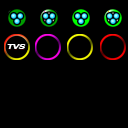
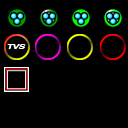
add white box as default attribute

Changed region(s): [[0.0312, 0.5, 0.25, 0.7188]]

diff --git a/htdocs/request/grx/l3attr.php b/htdocs/request/grx/l3attr.php
@@ -31,7 +31,7 @@ Font: 1, 11, 1, \"Courier New\"
 ";
 
 
-for ($i=0;$row=@pg_fetch_array($rs,$i);$i++)
+for ($i=0;$row=@pg_fetch_assoc($rs,$i);$i++)
 {
   $d = intval( $row["drct"] ) - 180;
   if ($d < 0){ $d = 360 - $d; }
@@ -39,7 +39,7 @@ for ($i=0;$row=@pg_fetch_array($rs,$i);$i++)
   $ts = strtotime($row["valid"]);
   $q = sprintf("K%s [%s] %s Z\\n", $row["nexrad"], $row["storm_id"], gmdate("H:i", $ts) );
   $q .= sprintf("Drct: %s Speed: %s kts\\n", $row["drct"], $row["sknt"]);
-  $icon = 1;
+  $icon = 9; // Default icon of white box
   if ($row["tvs"] != "NONE" || $row["meso"] != "NONE"){
     $q .= sprintf("TVS: %s MESO: %s\\n", $row["tvs"], $row["meso"]);
   }
